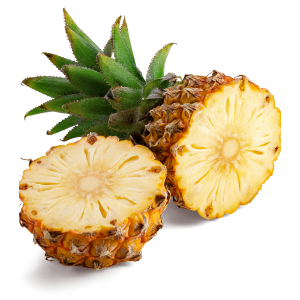
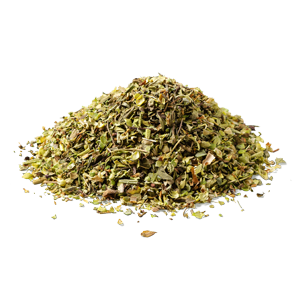
fix ingredients img

diff --git a/shared/components/shared/choose-pizza-form.tsx b/shared/components/shared/choose-pizza-form.tsx
@@ -1,22 +1,27 @@
-import { cn } from "@/shared/lib/utils";
-import React from "react";
-import { PizzaImage, ProductImage } from "./pizza-image";
+"use client";
+import React, { useEffect } from "react";
+import { PizzaImage } from "./pizza-image";
 import { Title } from "./title";
 import { Button } from "../ui";
 import { GroupVariants } from "./group-variants";
 import {
-  mapPizzaType,
+  mapPizzaTypes,
   PizzaSize,
   pizzaSizes,
   PizzaType,
   pizzaTypes,
 } from "@/shared/constants/pizza";
+import { Ingredient, ProductItem } from "@prisma/client";
+import { IngredientItem } from "./ingredient-item";
+import { useSet } from "react-use";
+import { calcTotalPizzaPrice, cn } from "@/shared/lib";
+
 export interface ChoosePizzaFormProps {
   imageUrl: string;
   name: string;
-  ingredients?: any[];
-  items?: any[];
-  onClickAdd: VoidFunction;
+  ingredients: Ingredient[];
+  items: ProductItem[];
+  onClickAddCart?: VoidFunction;
   className?: string;
 }
 
@@ -25,13 +30,52 @@ export const ChoosePizzaForm = ({
   name,
   ingredients,
   items,
-  onClickAdd,
+  onClickAddCart,
   className,
 }: ChoosePizzaFormProps) => {
   const [size, setSize] = React.useState<PizzaSize>(20);
   const [type, setType] = React.useState<PizzaType>(1);
-  const textDetails = "30sn, traditional";
-  const totalPrice = 25;
+
+  const [selectedIngredients, { toggle: addIngredient }] = useSet(
+    new Set<number>([])
+  );
+
+  const textDetails = `${size} sm, ${mapPizzaTypes[type]} pizza`;
+
+  const totalPrice = calcTotalPizzaPrice(
+    type,
+    size,
+    items,
+    ingredients,
+    selectedIngredients
+  );
+
+  const filteredPizzasByType = items.filter((item) => item.pizzaType === type);
+  const availablePizzaSizes = pizzaSizes.map((item) => ({
+    ...item,
+    disabled: !filteredPizzasByType.some(
+      (pizza) => Number(pizza.size) === Number(item.value)
+    ),
+  }));
+
+  useEffect(() => {
+    const isAvailableSize = availablePizzaSizes.find(
+      (item) => Number(item.value) === size && !item.disabled
+    );
+    const availableSize = availablePizzaSizes?.find((item) => !item.disabled);
+    if (!isAvailableSize && availableSize) {
+      setSize(Number(availableSize.value) as PizzaSize);
+    }
+  }, [type]);
+
+  const handleClickAdd = () => {
+    onClickAddCart?.();
+    console.log({
+      size,
+      type,
+      ingredients: selectedIngredients,
+    });
+  };
   return (
     <div className={cn(className, "flex flex-1")}>
       <PizzaImage src={imageUrl} size={size} />
@@ -43,7 +87,7 @@ export const ChoosePizzaForm = ({
 
         <div className=" flex flex-col gap-3 mt-5">
           <GroupVariants
-            items={pizzaSizes}
+            items={availablePizzaSizes}
             value={String(size)}
             onClick={(value) => setSize(Number(value) as PizzaSize)}
           />
@@ -54,7 +98,24 @@ export const ChoosePizzaForm = ({
           />
         </div>
 
-        <Button className="h-[55px] px-10 text-base rounded-[18px] w-full mt-10">
+        <div className=" bg-gray-50 rounded-md h-[420px] overflow-auto scrollbar mt-5">
+          <div className="grid grid-cols-3 gap-3">
+            {ingredients?.map((ingredient) => (
+              <IngredientItem
+                key={ingredient.id}
+                imageUrl={ingredient.imageUrl}
+                name={ingredient.name}
+                price={ingredient.price}
+                active={selectedIngredients.has(ingredient.id)}
+                onClick={() => addIngredient(ingredient.id)}
+              />
+            ))}
+          </div>
+        </div>
+        <Button
+          className="h-[55px] px-10 text-base rounded-[18px] w-full mt-10"
+          onClick={handleClickAdd}
+        >
           Add {totalPrice} $
         </Button>
       </div>

diff --git a/prisma/constants.ts b/prisma/constants.ts
@@ -20,111 +20,105 @@ export const _ingredients = [
   {
     id: 1,
     name: "Cheese border",
-    price: 179,
+    price: 2,
     imageUrl: "/images/ingredients/ingredient-1.png",
   },
   {
     id: 2,
     name: "Cream cheese",
-    price: 79,
+    price: 1,
     imageUrl: "/images/ingredients/ingredient-2.png",
   },
   {
     id: 3,
     name: "Cheddar and parmesan cheese",
-    price: 79,
+    price: 2,
     imageUrl: "/images/ingredients/ingredient-3.png",
   },
   {
     id: 4,
     name: "Spicy pepper jalapeno",
-    price: 59,
+    price: 1,
     imageUrl: "/images/ingredients/ingredient-4.png",
   },
   {
     id: 5,
     name: "Tender chicken",
-    price: 79,
+    price: 2,
     imageUrl: "/images/ingredients/ingredient-5.png",
   },
   {
     id: 6,
     name: "Mushrooms",
-    price: 59,
+    price: 1,
     imageUrl: "/images/ingredients/ingredient-6.png",
   },
   {
     id: 7,
     name: "Ham",
-    price: 79,
+    price: 2,
     imageUrl: "/images/ingredients/ingredient-7.png",
   },
   {
     id: 8,
     name: "Spicy pepperoni",
-    price: 79,
+    price: 1,
     imageUrl: "/images/ingredients/ingredient-8.png",
   },
   {
     id: 9,
     name: "Hot chorizo",
-    price: 79,
+    price: 2,
     imageUrl: "/images/ingredients/ingredient-9.png",
   },
   {
     id: 10,
     name: "Marinated cucumbers",
-    price: 59,
+    price: 1.5,
     imageUrl: "/images/ingredients/ingredient-10.png",
   },
   {
     id: 11,
     name: "Fresh tomatoes",
-    price: 59,
+    price: 1.5,
     imageUrl: "/images/ingredients/ingredient-11.png",
   },
   {
     id: 12,
     name: "Red onion",
-    price: 59,
+    price: 2,
     imageUrl: "/images/ingredients/ingredient-12.png",
   },
   {
     id: 13,
     name: "Juicy pineapple",
-    price: 59,
+    price: 1.6,
     imageUrl: "/images/ingredients/ingredient-13.png",
   },
   {
     id: 14,
     name: "Italian herbs",
-    price: 39,
+    price: 2.1,
     imageUrl: "/images/ingredients/ingredient-14.png",
   },
   {
     id: 15,
     name: "Sweet pepper",
-    price: 59,
+    price:2,
     imageUrl: "/images/ingredients/ingredient-15.png",
   },
   {
     id: 16,
     name: "Feta cheese cubes",
-    price: 79,
+    price: 2.3,
     imageUrl: "/images/ingredients/ingredient-16.png",
   },
   {
     id: 17,
     name: "Meatballs",
-    price: 79,
+    price: 1.9,
     imageUrl: "/images/ingredients/ingredient-17.png",
-  },
-  {
-    id: 18,
-    name: "Mozzarella",
-    price: 79,
-    imageUrl: "/images/ingredients/ingredient-18.png",
-  },
+  }
 ].map((obj) => ({  ...obj }));
 
 export const products = [

diff --git a/shared/components/shared/modals/choose-product-modal.tsx b/shared/components/shared/modals/choose-product-modal.tsx
@@ -1,12 +1,15 @@
 "use client";
-import { Dialog, DialogContent, DialogTitle } from "@/shared/components/ui/dialog";
+import {
+  Dialog,
+  DialogContent,
+  DialogDescription,
+  DialogTitle,
+} from "@/shared/components/ui/dialog";
 import {} from "@radix-ui/react-dialog";
 import React from "react";
-import { Product } from "@prisma/client";
 import { cn } from "@/shared/lib/utils";
 import { useRouter } from "next/navigation";
 import { ChooseProductForm } from "../choose-product-form";
-import { Title } from "../title";
 import { IProduct } from "@/@types/prisma";
 import { ChoosePizzaForm } from "../choose-pizza-form";
 export interface ChooseProductModalProps {
@@ -20,19 +23,25 @@ export const ChooseProductModal = ({
 }: ChooseProductModalProps) => {
   const router = useRouter();
   const isPizzaForm = Boolean(product.items[0].pizzaType);
+
   return (
     <Dialog open={Boolean(product)} onOpenChange={() => router.back()}>
       <DialogContent
+        aria-describedby="dialog-description"
         className={cn(
           "p-0 w-[1060px] max-w-[1060px] min-h-[550px] bg-white overflow-hidden",
           className
         )}
       >
+        <DialogTitle className="display-none h-0 w-0 absolute" />
+        <DialogDescription className="display-none h-0 w-0 absolute" />
         {isPizzaForm ? (
           <ChoosePizzaForm
             imageUrl={product.imageUrl}
             name={product.name}
-            onClickAdd={() => router.back()}
+            ingredients={product.ingredients}
+            onClickAddCart={() => router.back()}
+            items={product.items}
           />
         ) : (
           <ChooseProductForm

diff --git a/shared/components/shared/ingredient-item.tsx b/shared/components/shared/ingredient-item.tsx
@@ -1,0 +1,40 @@
+import { cn } from "@/shared/lib/utils";
+import { CircleCheck } from "lucide-react";
+import React from "react";
+export interface IngredientsProps {
+  imageUrl: string;
+  name: string;
+  price: number;
+  active?: boolean;
+  onClick?: () => void;
+  className?: string;
+}
+
+export const IngredientItem = ({
+  imageUrl,
+  name,
+  price,
+  active,
+  onClick,
+  className,
+}: IngredientsProps) => {
+  return (
+    <div
+      className={cn(
+        "flex items-center flex-col p-1 rounded-md w-32 text-center relative cursor-pointer shadow-md bg-white",
+        {
+          "border border-primary": active,
+        },
+        className
+      )}
+      onClick={onClick}
+    >
+      {active && (
+        <CircleCheck className="absolute top-2 right-2 text-primary" />
+      )}
+      <img src={imageUrl} width={110} height={110} alt={name} />
+      <span className="text-sx mb1">{name}</span>
+      <span className="font-bold">{price} $</span>
+    </div>
+  );
+};

diff --git a/shared/lib/calc-total-pizza-price.ts b/shared/lib/calc-total-pizza-price.ts
@@ -1,0 +1,30 @@
+import { Ingredient, ProductItem } from "@prisma/client";
+import { PizzaSize, PizzaType } from "../constants/pizza";
+
+/**
+ * Function to calculate total pizza price
+ *
+ * @param type - type of dough
+ * @param size - size of pizza
+ * @param items - list of variants
+ * @param ingredients - list of ingredients
+ * @param selectedIngredients - list of selected ingredients
+ * @returns number - total pizza price
+ */
+
+export const calcTotalPizzaPrice = (
+  type: PizzaType,
+  size: PizzaSize,
+  items: ProductItem[],
+  ingredients: Ingredient[],
+  selectedIngredients: Set<number>
+) => {
+  const pizzaPrice =
+    items.find((item) => item.pizzaType === type && item.size === size)
+      ?.price || 0;
+  const totalIngredientsPrice =
+    ingredients
+      ?.filter((ingredient) => selectedIngredients.has(ingredient.id))
+      ?.reduce((acc, ingredient) => acc + ingredient.price, 0) ?? 0;
+  return pizzaPrice + totalIngredientsPrice;
+};

diff --git a/shared/components/shared/index.ts b/shared/components/shared/index.ts
@@ -13,4 +13,5 @@ export { PizzaImage } from "./pizza-image";
 export { GroupVariants } from "./group-variants";
 export { ChooseProductForm } from "./choose-product-form";
 export { ChoosePizzaForm } from "./choose-pizza-form";
+export { IngredientItem } from "./ingredient-item";
 export * from "./modals";

diff --git a/shared/constants/pizza.ts b/shared/constants/pizza.ts
@@ -4,8 +4,8 @@ export const mapPizzaSizes = {
   40: "Large",
 } as const;
 export const mapPizzaTypes = {
-  1: "Traditional",
-  2: "Thin",
+  1: "traditional",
+  2: "thin",
 } as const;
 
 export const pizzaSizes = Object.entries(mapPizzaSizes).map(

diff --git a/shared/lib/index.ts b/shared/lib/index.ts
@@ -1,0 +1,2 @@
+export {calcTotalPizzaPrice} from './calc-total-pizza-price'
+export {cn} from './utils'
